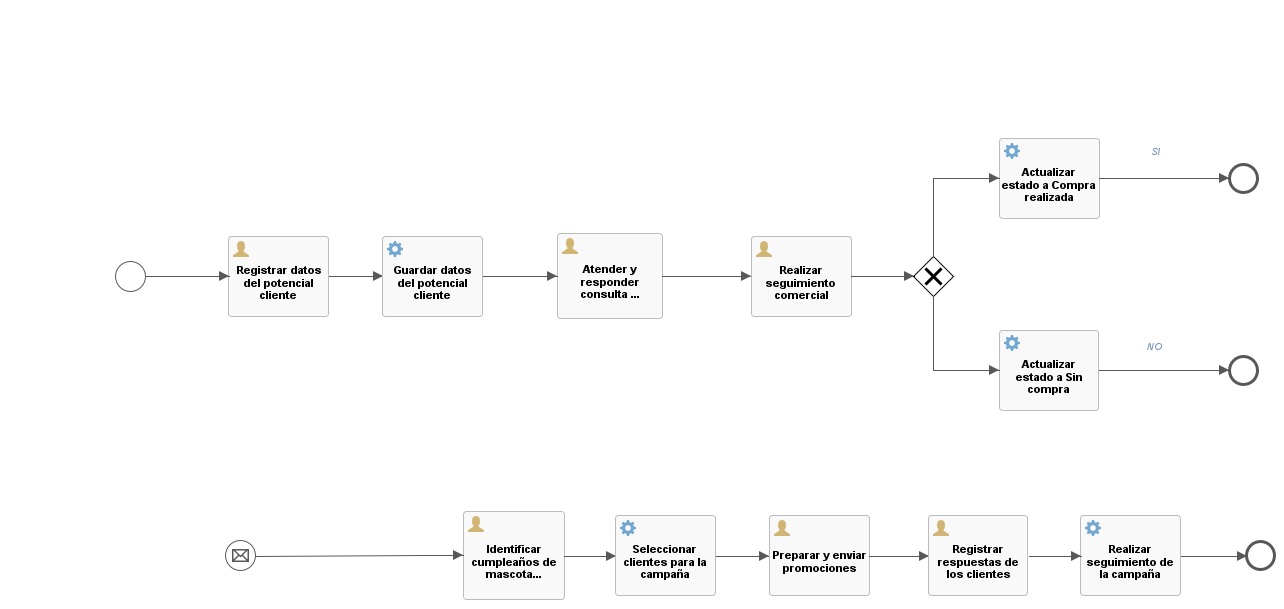
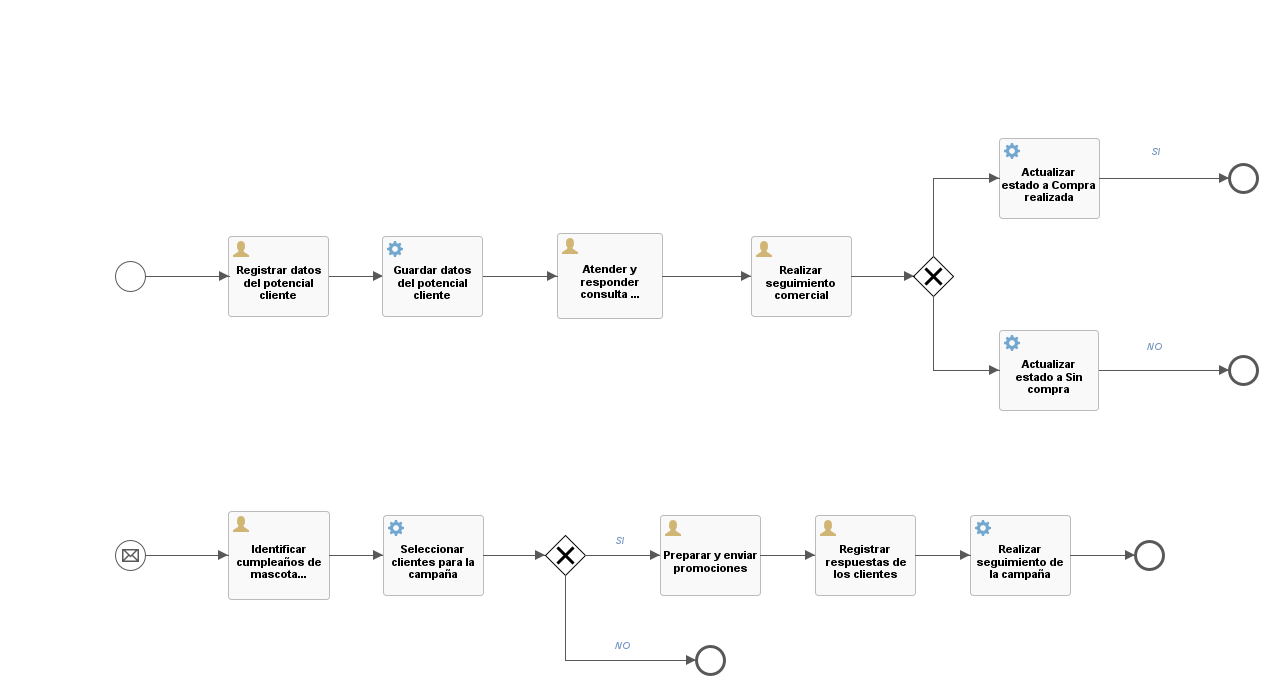
Entrega 4: agregar compuerta exclusiva de clientes elegibles tras Worker 3 y actualizar imagen BPMN

diff --git a/BPMN/README.md b/BPMN/README.md
@@ -22,6 +22,7 @@ Directorio unificado con los modelos BPMN del proceso actual (AS-IS) y del proce
 | **Inicio campañas, cumpleaños y fechas especiales** | `StartNoneEvent_20` | `StartMessageEvent` (`MensajeActivarCampanasEntrega3`) | Inicia el recorrido de campañas mediante mensaje en Flowable OSS. |
 | **Identificar cumpleaños de mascotas y fechas especiales** | `FormTask_21` | `UserTask` | **Define filtros:** `tipoCampana` (`"CUMPLEANOS"` / `"FECHA_ESPECIAL"`), `mesCumpleanos` (opcional), `especieMascota` (`"Perro"`, `"Gato"`, `"Todos"`), `tamanoMascota` (`"Pequeno"`, `"Mediano"`, `"Grande"`, `"Todos"`). |
 | **Seleccionar clientes para la campaña** | `FormTask_23` | `ServiceTask` (`external-worker`)<br>Topic: **`seleccionar-clientes-campana`** | **Lee:** `tipoCampana`, `mesCumpleanos`, `especieMascota`, `tamanoMascota`.<br>**Escribe:** `clientesSeleccionados` (`true`/`false`), `cantidadClientesCampana`, `listaClientesCampana`. |
+| **¿Hay clientes elegibles?** | `ExclusiveGateway_Campana_Clientes` | `ExclusiveGateway` | **Ruta SÍ** (`${clientesSeleccionados == true}`) $\rightarrow$ continúa a `FormTask_25`.<br>**Ruta NO** (`${clientesSeleccionados == false}`) $\rightarrow$ finaliza en `EndNoneEvent_SinClientes` (*Campaña sin clientes elegibles*). |
 | **Preparar y enviar promociones** / **Registrar respuestas de los clientes** | `FormTask_25` / `FormTask_27` | `UserTask` | **Registra:** `clienteId`, `promocionEnviada`, `respuestaClienteCampana`, `compraRealizadaCampana` (`true`/`false`), `observacionesCampana`. |
 | **Realizar seguimiento de la campaña** | `FormTask_29` | `ServiceTask` (`external-worker`)<br>Topic: **`registrar-seguimiento-campana`** | **Lee:** `clienteId`, `tipoCampana`, `promocionEnviada`, `respuestaClienteCampana`, `compraRealizadaCampana`, `observacionesCampana`.<br>**Escribe:** `seguimientoCampanaRegistrado` (`true`), `estadoCampana` (`"Finalizada"`). |
 
